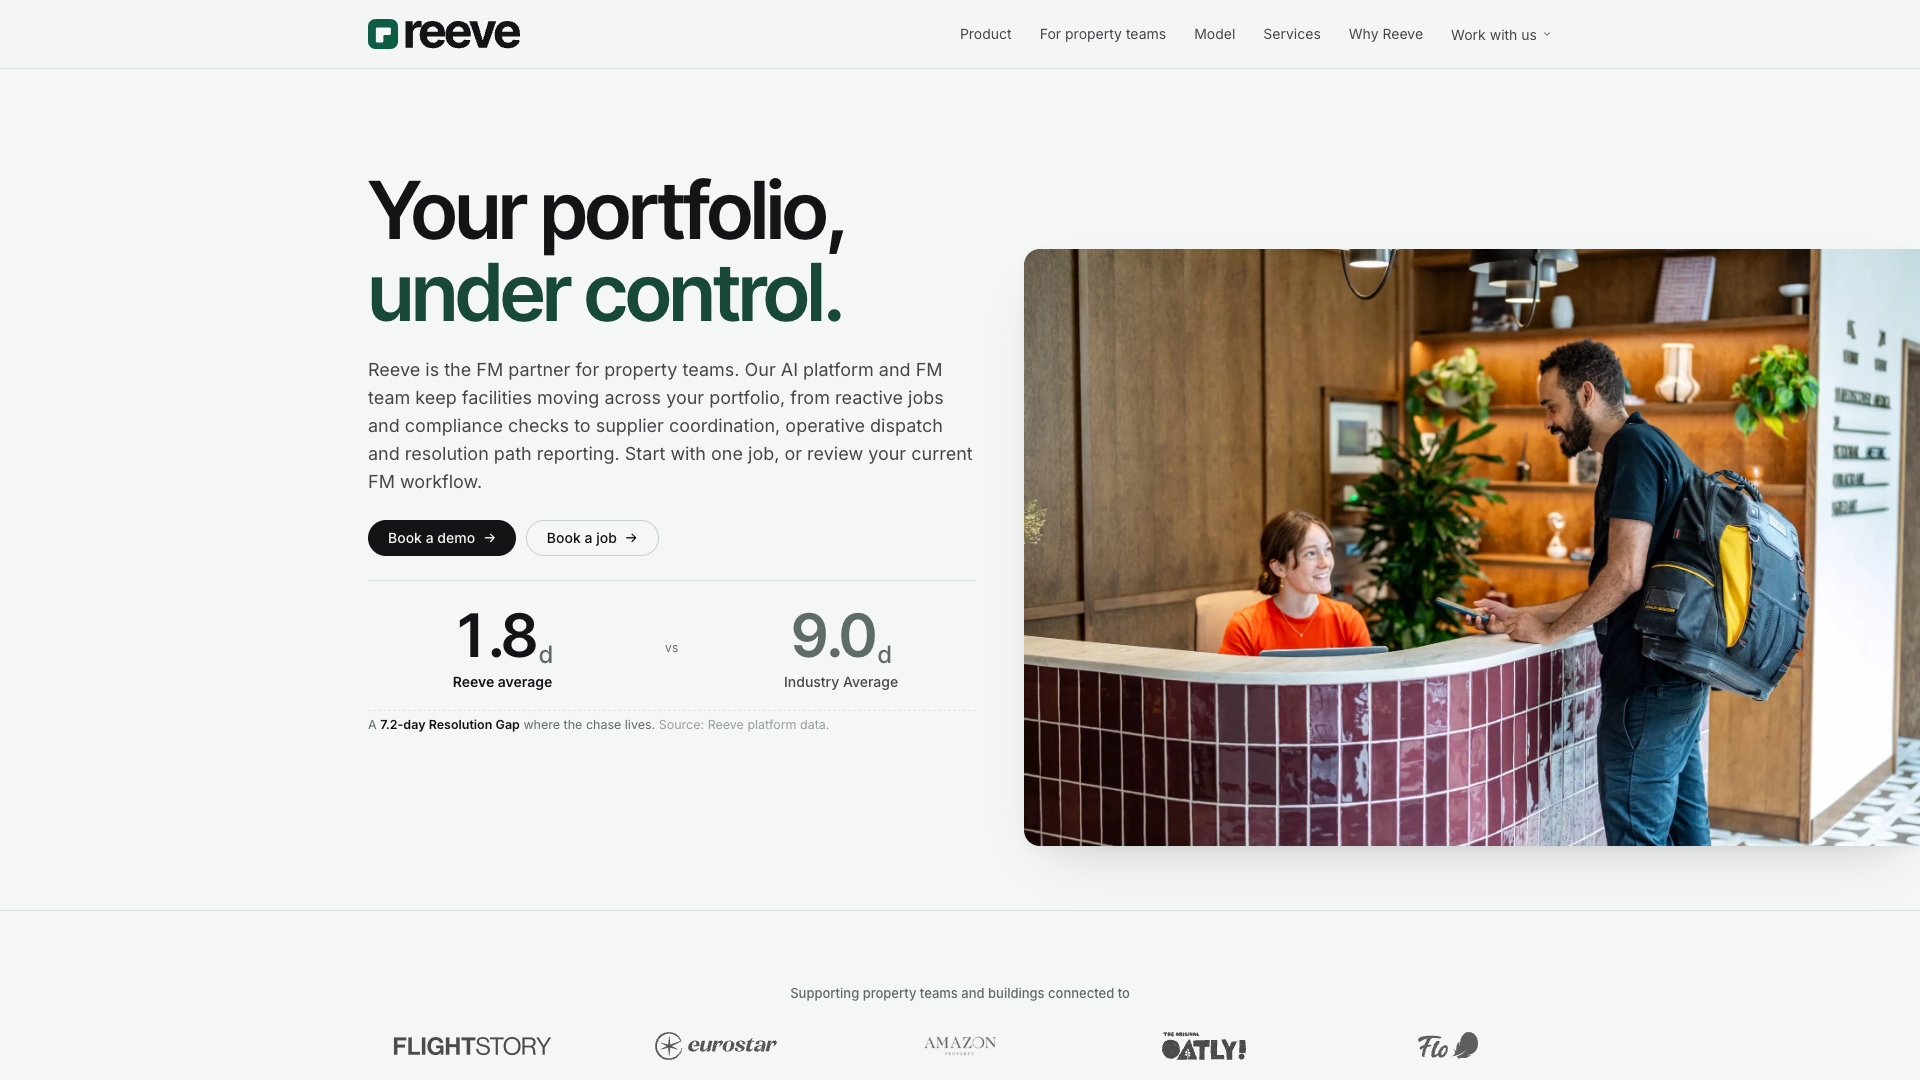
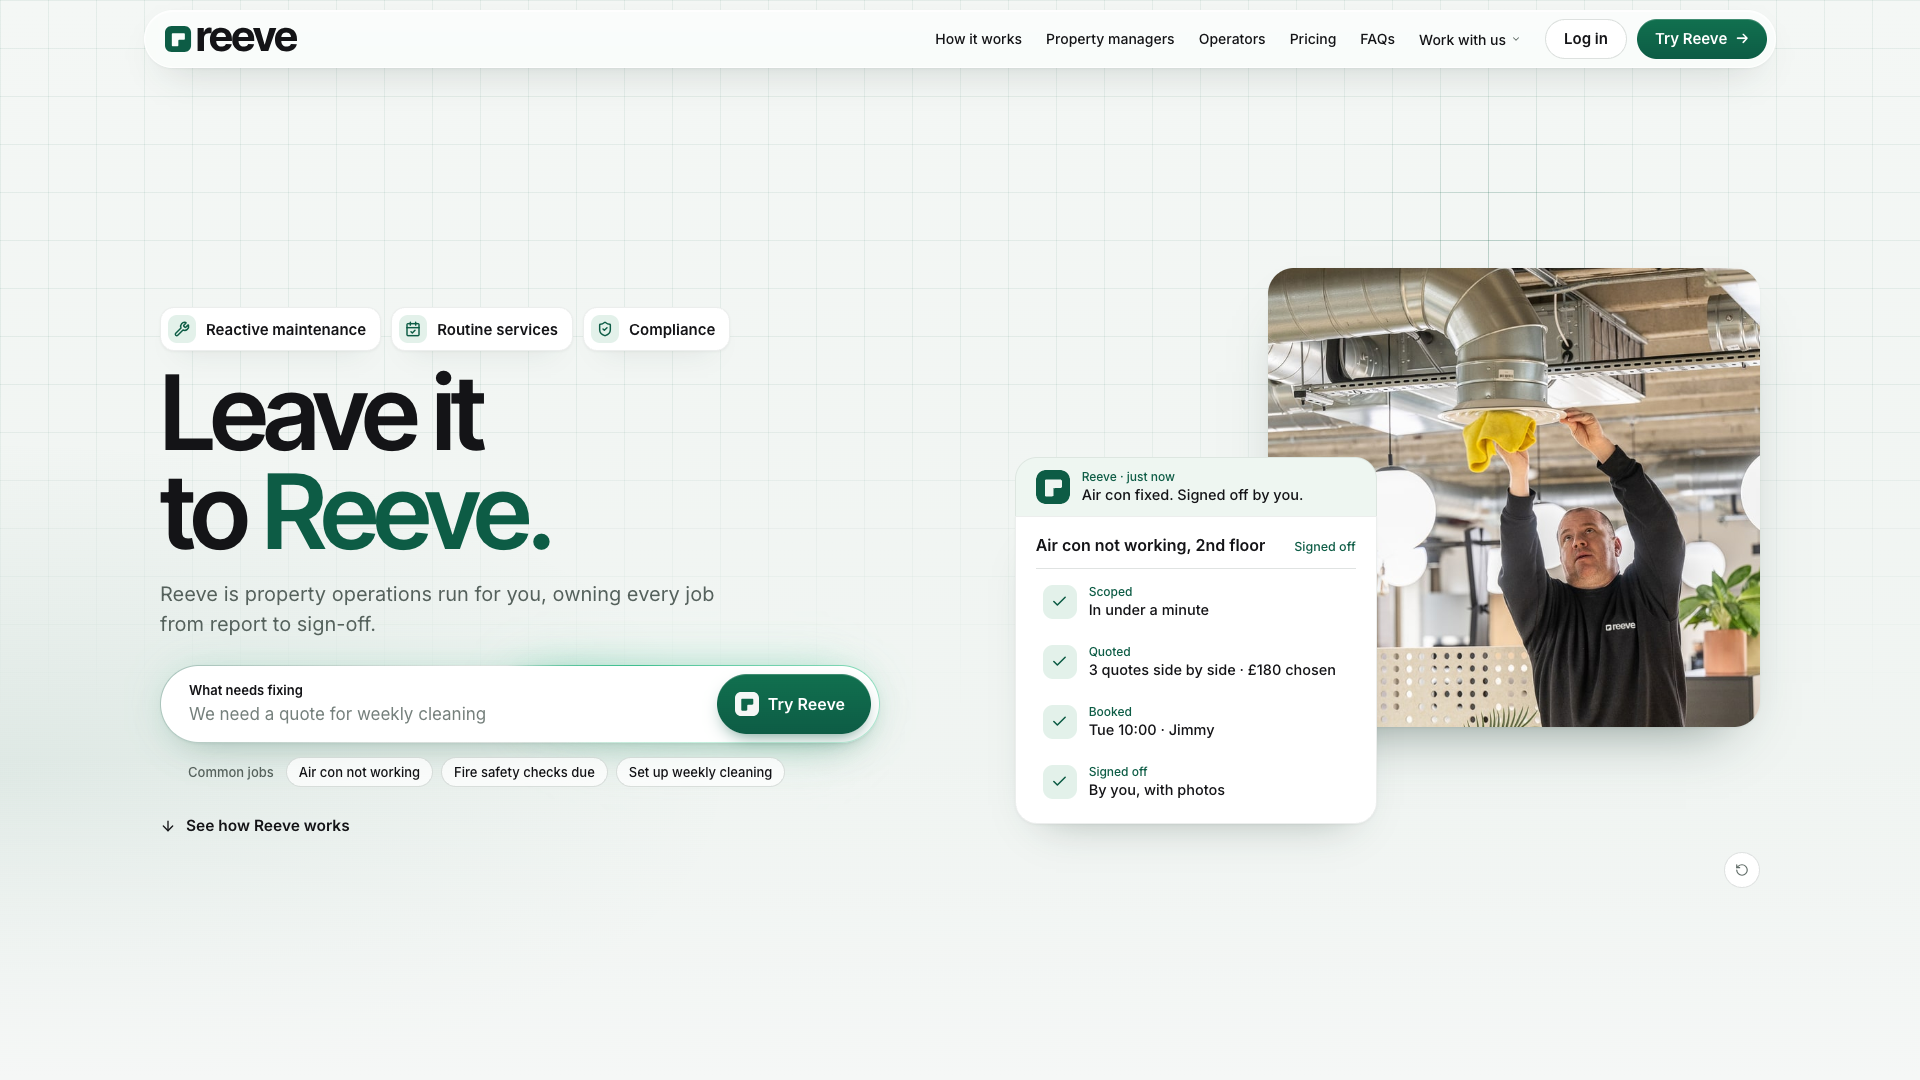
content: update Reeve screenshot for new reeve.fm site

diff --git a/src/content/projects/reeve.md b/src/content/projects/reeve.md
@@ -9,6 +9,6 @@ order: 1
 
 Reeve is a facilities management platform, built as a startup inside Kitt. It handles a service request from the moment it lands through to sign-off: triage, quoting, supplier coordination, dispatching an operative, and collecting the compliance evidence at the end. The customers are property teams looking after several buildings at once.
 
-I started on Reeve in May 2026 as one of three founding product engineers, so the work runs from deciding what to build through to shipping it. The API is NestJS and Fastify serving GraphQL over Postgres, the web app is TanStack Start, and Resend handles transactional email.
+I started on Reeve in May 2026 as one of three founding product engineers, so the work runs from deciding what to build through to shipping it. The API is NestJS and Fastify serving GraphQL over Postgres, the web app is TanStack Start, and Resend handles transactional email. I built the reeve.fm marketing site as well.
 
 I also work on Operative, the React Native app operatives use out on site. They pick up jobs on it, photograph what they've done and close out the visit, all against the same backend. Both apps are still in active development.
